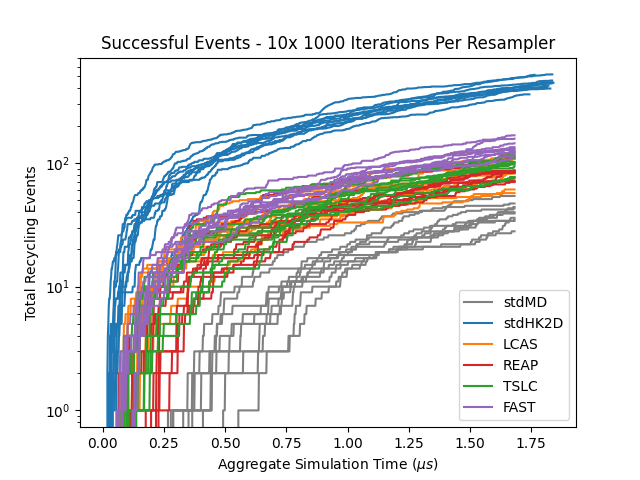
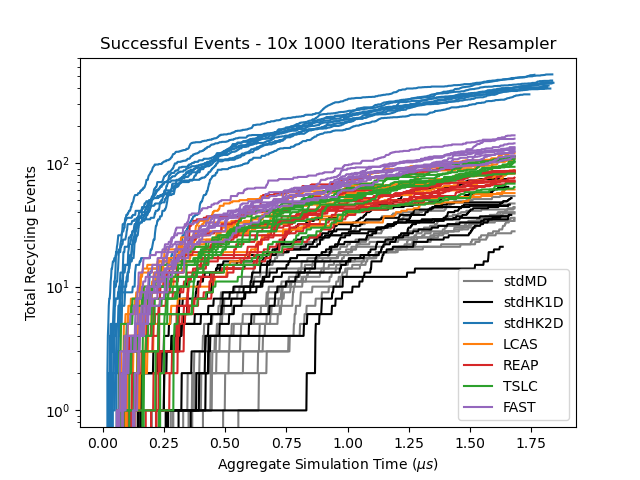
fixed TSLC weights and reward calculation

diff --git a/werl/werl_tslc.py b/werl/werl_tslc.py
@@ -17,9 +17,11 @@ from sklearn.decomposition import PCA
 
 from sklearn.metrics import pairwise_distances_argmin_min
 from scipy.spatial.distance import pdist, squareform
+from scipy.optimize import minimize
 
 from .werl_base import WERL
 from collections import Counter
+import os
 
 class TSLC(WERL):
     '''
@@ -40,22 +42,89 @@ class TSLC(WERL):
         closest, _ = pairwise_distances_argmin_min(self.centers, self.pcoords)
         return least_counts, self.pcoords[closest[least_counts]]
 
+    def tune_weights(self, rewards_function, weights, delta=0.02):
+        '''
+        Defines constraints for optimization and maximizes rewards function. 
+        Returns OptimizeResult object.
+
+        Parameters
+        ----------
+        delta : float, default 0.02 - same as default for REAP. TSLC sim repo had delta=0.25
+            Upper boundary for learning step.
+        '''
+        weights_prev = weights
+
+        # Create constraints
+        constraints = []
+
+        # Inequality constraints (fun(x, *args) >= 0)
+        constraints.append({
+            'type': 'ineq',
+            'fun': lambda weights, weights_prev, delta: delta - np.abs((weights_prev - weights)),
+            'jac': lambda weights, weights_prev, delta: np.diagflat(np.sign(weights_prev - weights)),
+            'args': (weights_prev, delta),
+        })
+
+        # This constraint makes the weights be always positive
+        constraints.append({
+            'type': 'ineq',
+            'fun': lambda weights: weights,
+            'jac': lambda weights: np.eye(weights.shape[0]),
+        })
+
+        # Equality constraints (fun(x, *args) = 0)
+        constraints.append({
+            'type': 'eq',
+            'fun': lambda weights: weights.sum() - 1,
+            'jac': lambda weights: np.ones(weights.shape[0]),
+        })
+
+        #print(lambda x: -rewards_function(x))
+        #print(weights_prev)
+        results = minimize(lambda x: -rewards_function(x), weights_prev, method='SLSQP', constraints=constraints)
+
+        return results
+
+    def calc_function_pcoords():
+        '''
+        Calculates temporary "pcoords" used in the reward calculation
+        Returns the "pcoords" calculated from x, y, (z), etc
+
+        fun_list: List of functions used as potential CVs
+        TODO: write functionality for user input of function list - currently using just arctan
+        '''
+        pass
+
     def compute_structure_reward(self, selected_points, weights):
         '''
         Computes the reward for each structure and returns it as an array.
-        This is the exact function DTY defined in werl_reap.py
+        This is the an adapted version of the function DTY defined in werl_reap.py
+        TODO: currently the adjustments are hardcoded for using 1 function
         '''
-        #print("Selected Points: ", selected_points)
-        mu = self.pcoords.mean(axis=0)
-        sigma = self.pcoords.std(axis=0)
-        #selected_points = selected_points[:, :2]  # Drop third dimension
 
-        # Shape is (selected_points.shape[0],)
-        # print(weights * np.abs(selected_points - mu) / sigma)
-        # print((weights * np.abs(selected_points - mu) / sigma).shape)
-        # print((weights * np.abs(selected_points - mu) / sigma).sum(axis=1))
-        reward = (weights * np.abs(selected_points - mu) / sigma)
-        # make sure 2d array sum axis indexable
+        # Here, we need to also consider each function value for our reward calculation
+        # We could potentially store these as some auxiliary data, or write them out to their own log
+        fun_tmp_pcoords = np.zeros((len(self.pcoords), 3))  # Here, there are 3 columns because 2 pcoords and 1 function
+        for i, xy in enumerate(self.pcoords):
+            x, y = xy[0], xy[1]
+            tmp_pcoord = np.arctan(y/x)
+            fun_tmp_pcoords[i] = ([self.pcoords[i][0], self.pcoords[i][1], tmp_pcoord])
+
+        mu = fun_tmp_pcoords.mean(axis=0)
+        sigma = fun_tmp_pcoords.std(axis=0)
+        
+
+        # Additionally, we need to append the function values at each lc cluster point
+        fun_selected_points = np.zeros((len(selected_points), 3))
+        for i, xy in enumerate(selected_points):
+            x, y = xy[0], xy[1]
+            tmp_pcoord = np.arctan(y/x)
+            fun_selected_points[i] = ([selected_points[i][0], selected_points[i][1], tmp_pcoord])
+        
+        # With all dimensions taken care of, we can now calculate the reward
+        reward = (weights * np.abs(fun_selected_points - mu) / sigma)
+        print(reward)
+        # make sure array sum axis indexable
         #reward = np.atleast_2d(reward)
 
         # print("Reward shape: ", reward.shape)
@@ -67,11 +136,18 @@ class TSLC(WERL):
             '''
             Returns the cumulative reward for current weights and a callable to the 
             cumulative reward function (necessary to finetune weights).
-            This is the exact function DTY defined in werl_reap.py
+            This is an adapted version of the function DTY defined in werl_reap.py
+            TODO: currently the adjustment to selected points array is hardcoded for using 1 function
             '''
+            # we need to append the function values at each lc cluster point
+            fun_selected_points = np.zeros((len(selected_points), 3))
+            for i, xy in enumerate(selected_points):
+                x, y = xy[0], xy[1]
+                tmp_pcoord = np.arctan(y/x)
+                fun_selected_points[i] = ([selected_points[i][0], selected_points[i][1], tmp_pcoord])
 
             def rewards_function(w):
-                r = self.compute_structure_reward(selected_points, w)
+                r = self.compute_structure_reward(fun_selected_points, w)
                 R = r.sum()
                 return R
 
@@ -177,7 +253,7 @@ class TSLC(WERL):
         self.counts : list of tuples
             Count of each cluster label amount.
 
-        Returns: weights - size (1, num CVs)
+        Returns: weights - shape (1, num CVs)
         '''
         
         # Get N lc clusters from the cluster id and its associated trajs 
@@ -241,15 +317,15 @@ class TSLC(WERL):
         # largest_eigvec = eig_vecs[largest_eigval]
 
         # 9) Compute w_k = w~_k ** 2 for k = [1, ..., K] in w~
-        # MA-REAP code uses eig_vecs[:, largest_eigval], but I think that may be incorrect
+        # MA-TSLC code uses eig_vecs[:, largest_eigval], but I think that may be incorrect
         # since that will use the largest eigenvalue's index of each eigenvector.
-
+        # weights = eig_vecs[:, largest_eigval] ** 2  # This is the MA-TSLC code
         weights = eig_vecs[largest_eigval, :] ** 2  # Use the elements of the largest eigenvector for the weights
-        #print(weights, np.sum(weights))
+        print(weights, np.sum(weights))
 
         return weights
 
-    def tslc(self, N=5):
+    def tslc(self, op_weights_file='tslc_op_weights.txt', N=5):
         '''
         WE version of the Tangent Space Least Adaptive Clustering (TLSC) algorithm.
         
@@ -274,19 +350,29 @@ class TSLC(WERL):
         n_agents = 1  # Forced
         delta = 0.02  # Upper boundary for learning step
         n_features = 2  # Number of variables in OP space (2d pcoord for now)
+        n_functions = 1 # Number of functions used (1 for now)
 
 
         if len(np.unique(self.pcoords)) == 1:
             return self.to_split, self.to_merge
         
-        weights = [np.ones((n_features)) / n_features for _ in range(n_agents)]
         # Init logs
         least_counts_points_log = [[] for _ in range(n_agents)]
         cumulative_reward_log = [[] for _ in range(n_agents)]
         weights_log = [[] for _ in range(n_agents)]
         individual_rewards_log = [[] for _ in range(n_agents)]
 
+
         # Step 2: set initial OP weights (not WE traj weights)
+        # if the file already exists, grab last row
+        if os.path.isfile(op_weights_file) is True:
+            all_iter_weights = np.atleast_2d(np.loadtxt(op_weights_file))
+            weights = [all_iter_weights[-1,:]]
+        # otherwise set weights as equal and save new op_weight file
+        else:
+            all_iter_weights = weights = [np.ones((n_features+n_functions)) / (n_features+n_functions) for _ in range(n_agents)]
+            np.savetxt(op_weights_file, weights)
+        
         for i in range(n_agents):
 
             kmeans = self.tslc_clustering()
@@ -302,18 +388,25 @@ class TSLC(WERL):
             R, reward_fun = self.compute_cumulative_reward(least_counts_points, weights[i]) # reward_fxn used in weight opt
             cumulative_reward_log[i].append(-R)
 
-            weights[i] = self.tslc_weighting(kmeans)
+            optimization_results = self.tune_weights(reward_fun, weights[i], delta=delta)
+            # Check if optimization worked
+            if optimization_results.success:
+                print(optimization_results)
+                pass
+            else:
+                print("ERROR: CHECK OPTIMIZATION RESULTS")
+                break
+
+            # get and save out new weights
+            weights[i] = optimization_results.x
             weights_log[i].append(weights[i])
 
-            # print(weights[i])
-            # print(least_counts_points)
+            #weights[i] = self.tslc_weighting(kmeans)
+            #weights_log[i].append(weights[i])
+            # vstack to put new weights on bottom
+            np.savetxt(op_weights_file, np.vstack((all_iter_weights, weights[i])))
 
-            ## This is sketchy - basically there are 3 weights (x, y, arctan)
-            ## But we only have x,y pcoords, so I throw that arctan away - bad!
-            ## Do I need to update the pcoords with whatever fxn is selected? 
-            ## i.e. calculate arctan and store as a 3rd dimension? 
-
-            rewards = self.compute_structure_reward(least_counts_points, weights[i][:len(least_counts_points[0])])
+            rewards = self.compute_structure_reward(least_counts_points, weights[i])
 
             individual_rewards_log[i].append(rewards)
 

diff --git a/alex_mm_potentials/werl_driver.py b/alex_mm_potentials/werl_driver.py
@@ -150,10 +150,10 @@ class WERLDriver(WEDriver):
                 # split, merge, variation, walker_variations = resample.resample()
                 #resample = WERL(pcoords, n_clusters=5)
                 
-                resample = LCAS(pcoords, weights, n_clusters=20, pmin=1e-12)
-                split, merge = resample.lcas()
+                #resample = LCAS(pcoords, weights, n_clusters=None, pmin=1e-12)
+                #split, merge = resample.lcas()
                 
-                # resample = LCAS_MA(pcoords, weights, n_clusters=5, n_agents=4)
+                # resample = LCAS_MA(pcoords, weights, n_clusters=20, n_agents=4)
                 # split, merge = resample.lcas_ma()
                 
                 #resample = REAP(pcoords, weights, n_clusters=20, pmin=1e-12)
@@ -162,9 +162,9 @@ class WERLDriver(WEDriver):
                 #resample = TSLC(pcoords, weights, n_clusters=20, pmin=1e-12)
                 #split, merge = resample.tslc()
 
-                #resample = FAST(pcoords, weights, n_clusters=20)
-                #resample = FAST(pcoords, weights, n_clusters=20, pmin=1e-12)
-                #split, merge = resample.fast()
+                #resample = FAST(pcoords, weights, n_clusters=None)
+                resample = FAST(pcoords, weights, n_clusters=20, pmin=1e-12)
+                split, merge = resample.fast()
 
                 # TODO: testing filters
                 #split = [1 if i > 1 else i for i in split]

diff --git a/2D_ODLD-potential/plot_events.py b/2D_ODLD-potential/plot_events.py
@@ -48,8 +48,12 @@ def calc_events(h5, tau=21e-12):
 
 fig, ax = plt.subplots()
 
-h5_files = ["stdMD", "stdHK2D", "LCAS", "REAP", "TSLC", "FAST"]
-colors = ["gray", "tab:blue", "tab:orange", "tab:red", "tab:green", "tab:purple"]
+#h5_files = ["stdMD", "stdHK1D", "stdHK1D_finer", "stdHK2D", "LCAS", "REAP", "TSLC", "FAST"]
+#colors = ["gray", "black", "brown", "tab:blue", "tab:orange", "tab:red", "tab:green", "tab:purple"]
+
+h5_files = ["stdMD", "stdHK1D", "stdHK2D", "LCAS", "REAP", "TSLC", "FAST"]
+colors = ["gray", "black", "tab:blue", "tab:orange", "tab:red", "tab:green", "tab:purple"]
+
 
 for h5, c in zip(h5_files, colors):
     #fig, ax = plt.subplots()

diff --git a/werl/werl_fast.py b/werl/werl_fast.py
@@ -2,7 +2,7 @@
 import numpy as np
 from scipy.optimize import minimize
 from sklearn.metrics import pairwise_distances_argmin_min
-from .werl_base import WERL
+from werl.werl_base import WERL
 from math import ceil
 
 
